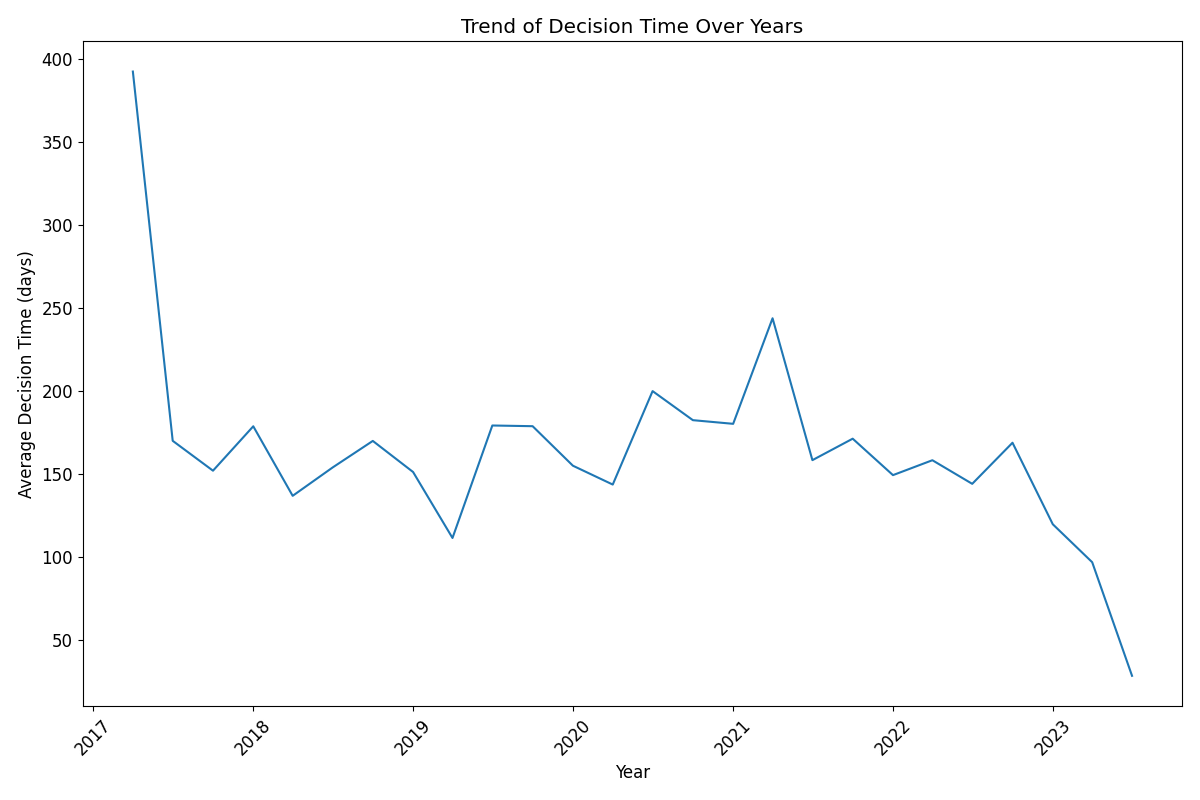
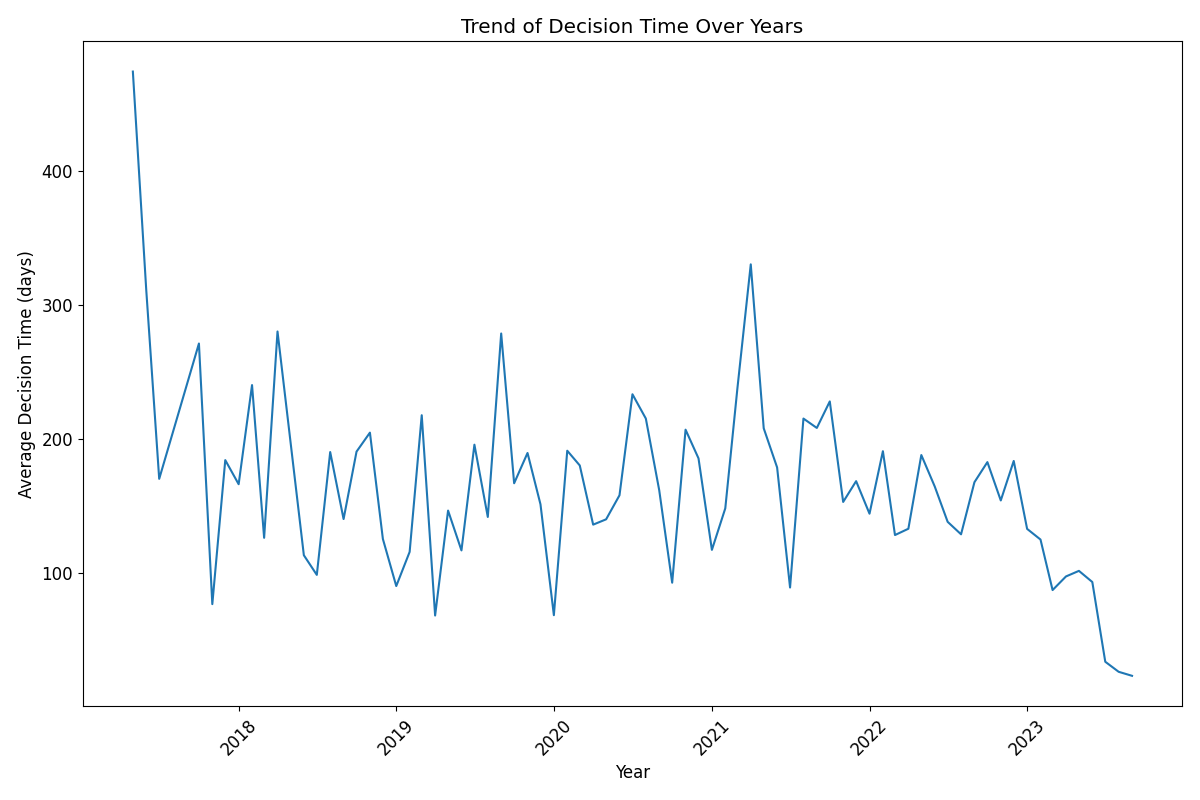
refactoring 0

diff --git a/aiml_dfs/device_specifics/specifics.py b/aiml_dfs/device_specifics/specifics.py
@@ -4,9 +4,11 @@ import seaborn as sns
 from collections import Counter
 import re
 
+
 # Function to add a title below the plot for APA 7 compliance
 def add_title_below_plot(title, fig):
     fig.suptitle(title, y=-0.15, verticalalignment='bottom', fontsize=12)
+
 
 # Load the CSV file
 file_path = '../aiml_501ks.csv'
@@ -19,13 +21,18 @@ data['decision_date'] = pd.to_datetime(data['decision_date'])
 # Calculating 'decision time' in days
 data['decision_time'] = (data['decision_date'] - data['date_received']).dt.days
 
-# Group data by year (or choose another time unit) and calculate the average decision time
-grouped_data = data.groupby(data['date_received'].dt.to_period("Q"))['decision_time'].mean()
+# Group data by quarter and calculate the average decision time
+grouped_data = data.groupby(data['date_received'].dt.to_period("M"))['decision_time'].mean()
+
+# Grouping by year and counting the number of devices
+trends_over_time = data.groupby(data['date_received'].dt.year).size()
+
+# Categorization by Medical Specialty
+medical_specialty_counts = data['regulation_medical_specialty'].value_counts()
 
 # Convert the group by object to a DataFrame
 grouped_data_df = grouped_data.reset_index()
 grouped_data_df['date_received'] = grouped_data_df['date_received'].dt.to_timestamp()
-
 
 # Analyzing the 'device_classification_name' column
 device_class_counts = data['device_classification_name'].value_counts()
@@ -52,7 +59,6 @@ sns.histplot(data['decision_time'], bins=30, kde=True)
 plt.xlabel('Decision Time (days)')
 plt.ylabel('Frequency')
 plt.tight_layout()
-add_title_below_plot('Figure 1. Distribution of Decision Times', plt.gcf())
 plt.savefig('figure1_decision_times.png')  # Saving the plot
 
 plt.figure(figsize=(12, 8))
@@ -60,7 +66,6 @@ sns.barplot(x=device_class_counts.head(20).values, y=device_class_counts.head(20
 plt.xlabel('Count')
 plt.ylabel('Device Classification')
 plt.tight_layout()
-add_title_below_plot('Figure 2. Top 10 Device Classifications', plt.gcf())
 plt.savefig('figure2_top_device_classifications.png')  # Saving the plot
 
 plt.figure(figsize=(12, 8))
@@ -68,7 +73,6 @@ sns.barplot(x=split_class_name_counts.head(10).values, y=split_class_name_counts
 plt.xlabel('Count')
 plt.ylabel('Terms')
 plt.tight_layout()
-add_title_below_plot('Figure 3. Top 10 Terms in Device Classifications After Splitting', plt.gcf())
 plt.savefig('figure3_top_10_device_classifications_after_splitting.png')  # Saving the plot
 
 # Grouping the data by 'date_received' and calculating the average 'decision_time'
@@ -81,6 +85,16 @@ plt.xlabel('Date Received')
 plt.ylabel('Average Decision Time (days)')
 plt.title('Time Series of Average Decision Time')
 plt.savefig('figure4_time_series_of_average_decision_time.png')  # Saving the plot
+
+# Plotting the trends
+plt.figure(figsize=(12, 8))
+sns.lineplot(x=trends_over_time.index, y=trends_over_time.values)
+plt.title('Trend of AI-Related Medical Device Clearances Over Time')
+plt.xlabel('Year')
+plt.ylabel('Number of Devices')
+plt.savefig('figure5_ai_devices_cleareances_over_time.png')  # Saving the plot
+
+
 
 # Calculating the number of devices per year
 data['year'] = data['date_received'].dt.year

diff --git a/main.py b/main.py
@@ -78,7 +78,7 @@ if __name__ == '__main__':
     """
     Main function to execute the workflow.
     """
-    month, year = 10, 2018
+    month, year = 1, 2015
     htmls_path = 'HTMLS/'
     ai_htmls_path = 'AIML_HTMLS'
     pdfs_pmas_path = 'PDFS_PMAS'

diff --git a/study_features.py b/study_features.py
@@ -1,8 +1,7 @@
 import os.path
 
 import pandas as pd
-import re
-import numpy as np
+
 
 
 def get_classification_features(product_code) -> dict:
